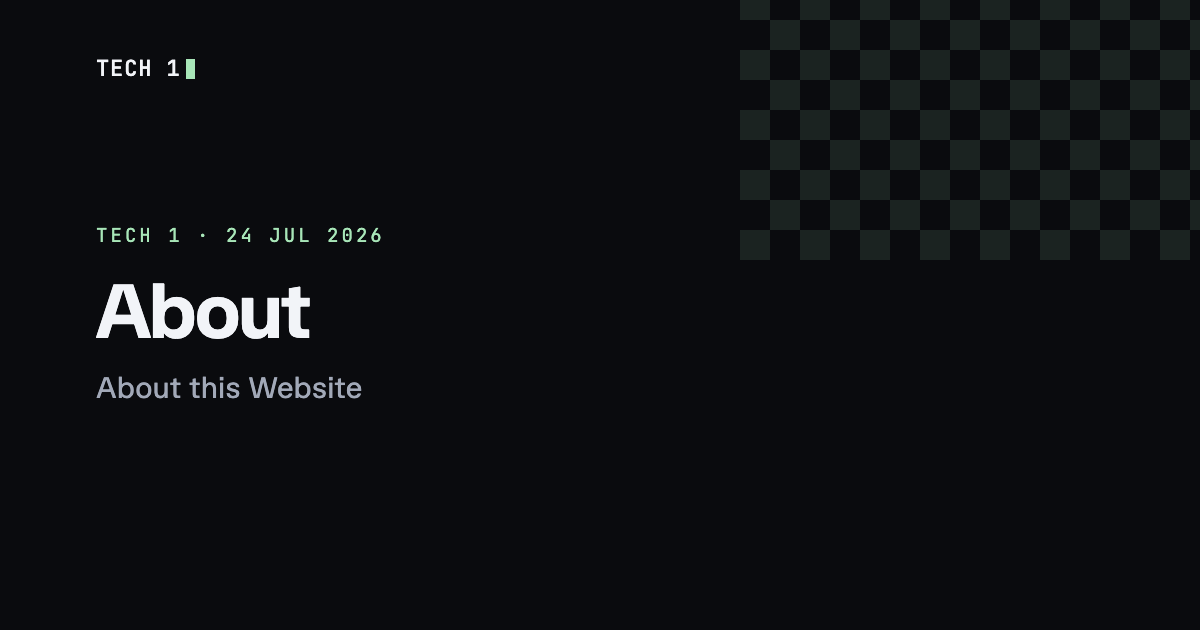
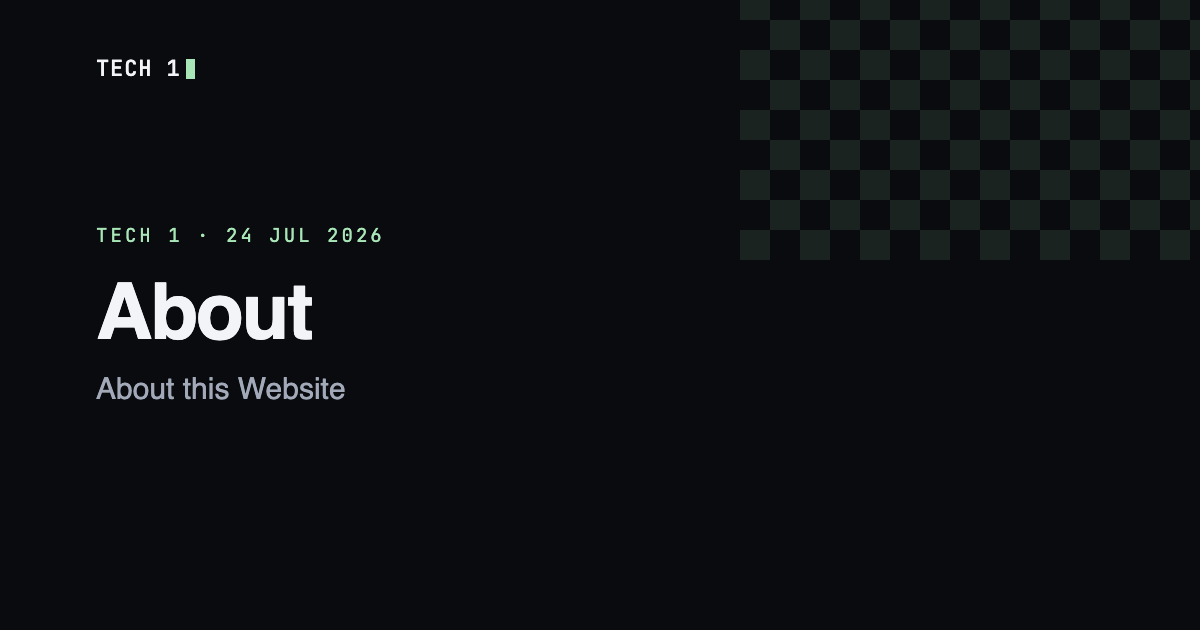
Fix Present mode on notes without --- separators; Lecture 2 content
- deck.js falls back to splitting on any h2/h3/h4 heading, not just h4,
  so notes written with ## and ### get a deck too
- point _data/lectures.yml at the renamed lecture files so Syllabus and
  Class Schedule links resolve again
- Lecture 2: fill out Google Fonts section, add colour variables and
  dark mode ahead of the CSS properties list
- drop OG images for the old lecture-1/lecture-2 slugs

Changed region(s): [[0.0617, 0.4524, 0.2775, 0.5429], [0.0925, 0.6032, 0.3083, 0.6333]]

diff --git a/assets/js/deck.js b/assets/js/deck.js
@@ -2,9 +2,12 @@
 document.addEventListener("DOMContentLoaded", function () {
   var content = document.querySelector(".note-page-section .content");
   if (!content) return;
-  // Split on --- separators when present, else fall back to #### headings
-  var splitTag = content.querySelectorAll("hr").length >= 1 ? "HR" : "H4";
-  if (splitTag === "H4" && content.querySelectorAll("h4").length < 2) return; // nothing deck-worthy
+  // Split on --- separators when present, else on whatever headings the note uses
+  var splitTags = content.querySelectorAll("hr").length >= 1
+    ? ["HR"]
+    : ["H2", "H3", "H4"];
+  if (splitTags[0] !== "HR" &&
+      content.querySelectorAll("h2, h3, h4").length < 2) return; // nothing deck-worthy
 
   var btn = document.createElement("button");
   btn.id = "present-toggle";
@@ -28,11 +31,11 @@ document.addEventListener("DOMContentLoaded", function () {
 
     var nodes = Array.prototype.slice.call(content.childNodes);
     nodes.forEach(function (node) {
-      if (node.nodeType === 1 && node.tagName === splitTag) {
+      if (node.nodeType === 1 && splitTags.indexOf(node.tagName) !== -1) {
         deck.appendChild(slide);
         slide = document.createElement("section");
         slide.className = "slide";
-        if (splitTag === "HR") return; // the separator itself doesn't appear on any slide
+        if (node.tagName === "HR") return; // the rule itself isn't part of a slide
       }
       slide.appendChild(node.cloneNode(true));
     });

diff --git a/_layouts/Post.html b/_layouts/Post.html
@@ -100,7 +100,7 @@
     <![endif]-->
     <!--<link href="/assets/css/prism.css" rel="stylesheet" />-->
     <link rel="alternate" type="application/rss+xml" href="{{ site.url }}/feed.xml">
-    <script src="{{ site.baseurl }}/assets/js/deck.js?v=3" defer></script>
+    <script src="{{ site.baseurl }}/assets/js/deck.js?v=4" defer></script>
 </head>
 
 <body>

diff --git a/_notes/Lecture 2 - CSS and Responsivemness.md b/_notes/Lecture 2 - CSS and Responsivemness.md
@@ -28,6 +28,56 @@ Last week we shipped a page! This week we'll figure out how to ship your page.
 [Download Simple Web Server](https://simplewebserver.org/)
 This app is a quick and easy way to start a server on your computer, and allows you to test your website on your computer or any other device on the same wifi network - like your phone!
 
+## Colour variables, and dark mode
+
+Before we style anything: decide your colours **once**, in one place.
+
+CSS lets you name a value and reuse it. These are called *custom properties*, or just variables:
+
+```css
+:root {
+  --bg: #ffffff;
+  --text: #1a1a1a;
+  --accent: #ff4343;
+}
+
+body {
+  background: var(--bg);
+  color: var(--text);
+}
+
+a {
+  color: var(--accent);
+}
+```
+
+`:root` just means "the whole page". Now changing `--accent` in one line recolours every link on your site. This is a design system in four lines — the same idea as styles in Figma.
+
+### Dark mode is (almost) free
+
+Because your colours are named, you can hand the browser a second set for people whose device is in dark mode:
+
+```css
+@media (prefers-color-scheme: dark) {
+  :root {
+    --bg: #0a0a0a;
+    --text: #f0f0f0;
+    --accent: #ff7a7a;
+  }
+}
+```
+
+Nothing else changes. Every rule already says `var(--bg)`, so the whole page flips.
+
+**Things to watch out for**
+
+- **Don't just invert.** Pure white text on pure black is harsh. Use a near-black and a near-white — like `#0a0a0a` and `#f0f0f0`.
+- **Your accent probably needs adjusting.** A colour with enough contrast on white is often too dark on black. That's why `--accent` is lighter in the dark set above.
+- **Test both.** Your OS has a toggle, or use DevTools → the three dots → More tools → Rendering → *Emulate prefers-color-scheme*.
+- **Images and screenshots** with white backgrounds will glow in dark mode. Consider a PNG with a transparent background.
+
+This site does exactly this — try the ☀ toggle at the top and then look at `style.css`.
+
 ## CSS Properties
 
 ### Font name
@@ -51,6 +101,34 @@ body {
 ```
 
 ### Loading fonts from Google Fonts
+
+Your computer has fonts installed. Your visitor's computer probably doesn't have the same ones. So if you write `font-family: "Roboto Condensed"` and they don't have it, they get a fallback — your design breaks on someone else's machine.
+
+The fix: tell the browser where to *download* the font from. [Google Fonts](https://fonts.google.com) hosts hundreds for free.
+
+1. Go to [fonts.google.com](https://fonts.google.com) and pick a font.
+2. Choose the weights you actually need (each one is another download — don't tick all nine).
+3. Copy the `<link>` it gives you into the `<head>` of your HTML, above your stylesheet:
+
+```html
+<link rel="preconnect" href="https://fonts.googleapis.com">
+<link href="https://fonts.googleapis.com/css2?family=Roboto+Condensed:wght@400;700&display=swap" rel="stylesheet">
+```
+
+4. Now use it in your CSS, with a fallback in case it fails to load:
+
+```css
+body {
+  font-family: "Roboto Condensed", sans-serif;
+}
+```
+
+**Things worth knowing**
+
+- The font is downloaded on every visit, so more weights means a slower page. Two or three is plenty.
+- `display=swap` in that URL means text shows in a fallback font immediately, then swaps when the real one arrives — better than staring at invisible text.
+- The font name in your CSS must match the name in the link exactly, spelling and capitalisation.
+- Fonts you buy or download elsewhere can be self-hosted with `@font-face` — same idea, but the file lives in your repo. Ask AI to set it up when you need it.
 
 ### Font weight
 
